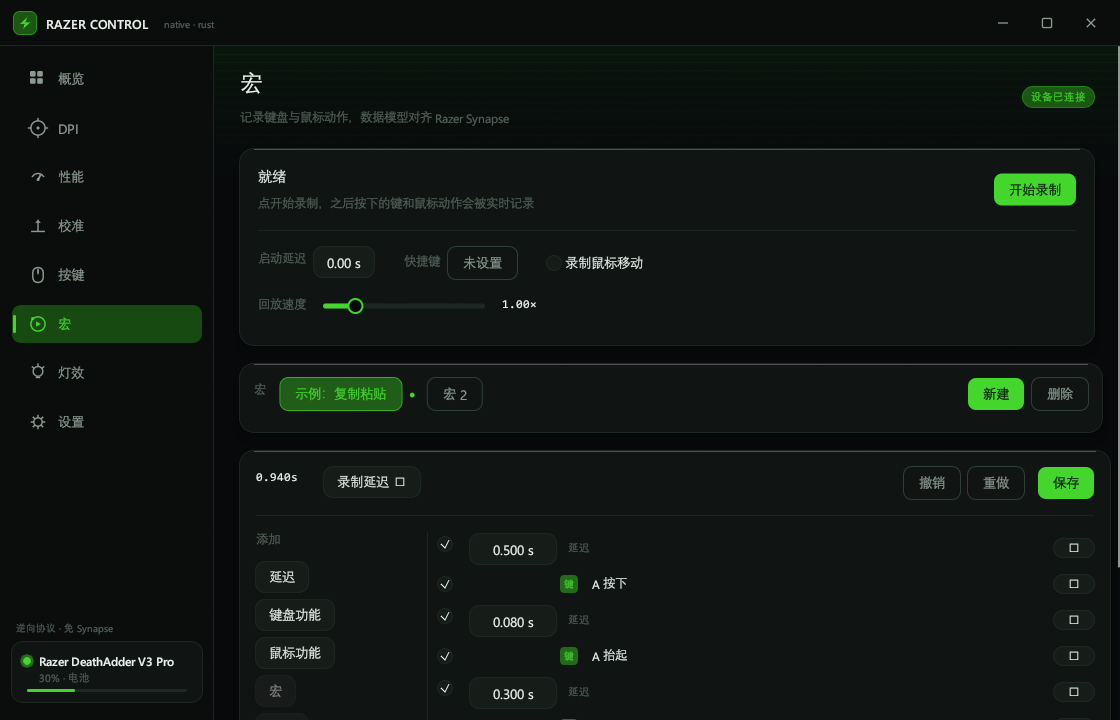
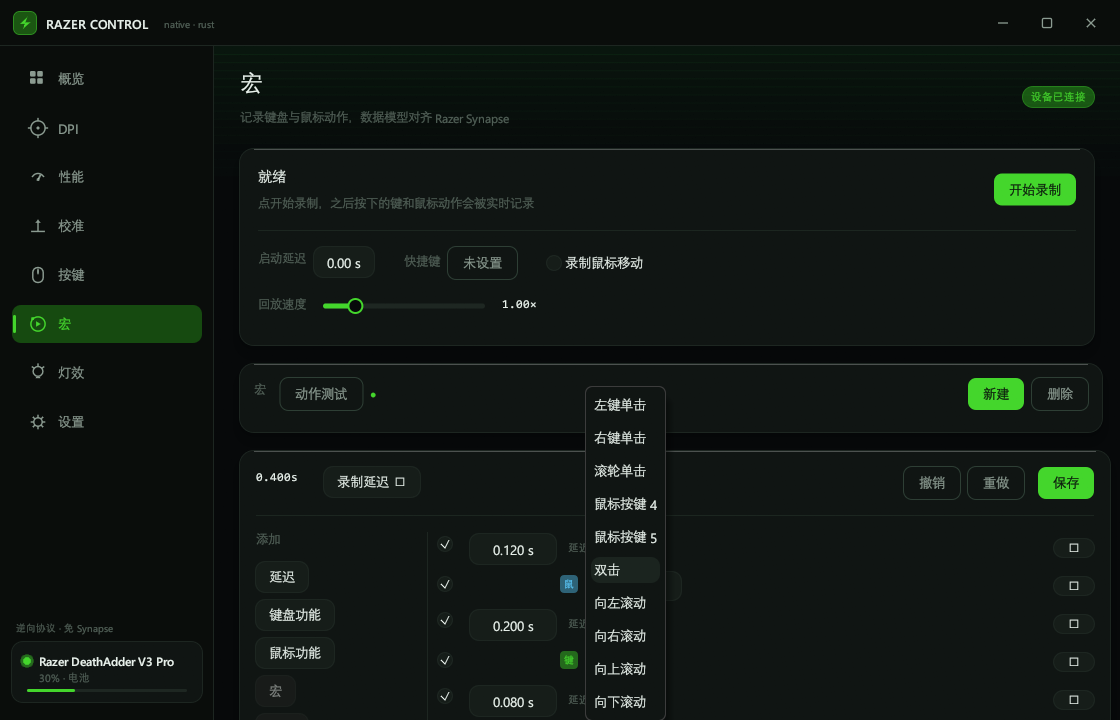
feat(macro): 按雷云交互实现动作步骤与按键步骤
雷云的「鼠标功能」不是插入写死的动作，而是先插入一行「选择操作」再在行内下拉里挑。
本次按 dash.js 里逆向出的动作表实现：
  LEFT_CLICK / RIGHT_CLICK / SCROLL_CLICK / DOUBLE_CLICK /
  MOUSE_BUTTON_4 / MOUSE_BUTTON_5 / SCROLL_LEFT / SCROLL_RIGHT /
  SCROLL_UP / SCROLL_DOWN

- 新增 kind=5（动作步骤）：a=动作码，-1 表示未选择（UI 显示「选择操作 ▾」高亮）
- 新增 kind=6（按键步骤）：a=scan code，点「选择键」后按一个键填入
- 回放支持全部 10 个动作，含双击与横向滚动（MOUSEEVENTF_HWHEEL）
- 录制输出仍是原始 kind=1/2 事件，与雷云录制结果同构
- README 补 4.5 节说明这套交互

diff --git a/rz-app/src/pages/mod.rs b/rz-app/src/pages/mod.rs
@@ -1154,12 +1154,18 @@ pub fn macros(app: &mut App, ui: &mut Ui) {
             app.macro_add_key = false;
             if let Some(i) = app.macro_sel {
                 let sc = M::vk_to_scancode(vk);
+                let step = app.macro_target_step.take();
                 let mut evs = app.macros[i].events.clone();
-                evs.push(M::Ev::delay(50));
-                evs.push(M::Ev::key(sc, true));
-                evs.push(M::Ev::delay(50));
-                evs.push(M::Ev::key(sc, false));
-                app.push_macro_undo(i);
+                match step {
+                    Some(j) if j < evs.len() && evs[j].kind == M::T_KEYPRESS => {
+                        app.push_macro_undo(i);
+                        evs[j].a = sc as i32;
+                    }
+                    _ => {
+                        app.push_macro_undo(i);
+                        evs.push(M::Ev::keypress(sc as i32));
+                    }
+                }
                 app.macros[i].events = evs;
                 app.save_macros();
             }
@@ -1451,12 +1457,9 @@ pub fn macros(app: &mut App, ui: &mut Ui) {
                     if ui.button("键盘功能").clicked() {
                         add_key = true;
                     }
-                    ui.menu_button("鼠标功能", |ui| {
-                        if ui.button("左键单击").clicked() {
-                            add_mouse = true;
-                            ui.close_menu();
-                        }
-                    });
+                    if ui.button("鼠标功能").clicked() {
+                        add_mouse = true;
+                    }
                     ui.add_enabled_ui(false, |ui| {
                         let _ = ui.button("宏");
                         let _ = ui.button("启动");
@@ -1542,8 +1545,8 @@ pub fn macros(app: &mut App, ui: &mut Ui) {
                         } else {
                             ui.add_space(90.0);
                             let (badge, col) = match evs[j].kind {
-                                M::T_KEYBOARD => ("键", ACCENT),
-                                M::T_MOUSE => ("鼠", INFO),
+                                M::T_KEYBOARD | M::T_KEYPRESS => ("键", ACCENT),
+                                M::T_MOUSE | M::T_ACTION => ("鼠", INFO),
                                 M::T_WHEEL => ("轮", TEXT),
                                 _ => ("移", MUTED),
                             };
@@ -1558,11 +1561,52 @@ pub fn macros(app: &mut App, ui: &mut Ui) {
                                 col,
                             );
                             ui.add_space(6.0);
-                            ui.label(
-                                egui::RichText::new(M::ev_label(&evs[j]))
+                            if evs[j].kind == M::T_ACTION && !app.macro_recording {
+                                // 雷云交互：行内下拉选择操作
+                                let cur = M::action_name(evs[j].a);
+                                let unset = evs[j].a < 0;
+                                let label = if unset {
+                                    "选择操作 ▾".to_string()
+                                } else {
+                                    format!("{} ▾", cur)
+                                };
+                                let txt = egui::RichText::new(label)
                                     .font(app.ty.small.clone())
-                                    .color(if M::ev_disabled(&evs[j]) { MUTED } else { TEXT }),
-                            );
+                                    .color(if unset { ACCENT } else { TEXT });
+                                ui.menu_button(txt, |ui| {
+                                    for (code, (name, en)) in M::ACTIONS.iter().enumerate() {
+                                        if ui
+                                            .button(*name)
+                                            .on_hover_text(*en)
+                                            .clicked()
+                                        {
+                                            evs[j].a = code as i32;
+                                            changed = true;
+                                            ui.close_menu();
+                                        }
+                                    }
+                                });
+                            } else if evs[j].kind == M::T_KEYPRESS && !app.macro_recording {
+                                let name = if evs[j].a <= 0 {
+                                    "选择键".to_string()
+                                } else {
+                                    M::sc_name(evs[j].a as u16)
+                                };
+                                let txt = egui::RichText::new(name)
+                                    .font(app.ty.small.clone())
+                                    .color(if evs[j].a <= 0 { ACCENT } else { TEXT });
+                                if ui.button(txt).on_hover_text("点一下，然后按要用的键").clicked() {
+                                    app.macro_target_step = Some(j);
+                                    app.macro_add_key = true;
+                                    crate::hook::set_capture(true);
+                                }
+                            } else {
+                                ui.label(
+                                    egui::RichText::new(M::ev_label(&evs[j]))
+                                        .font(app.ty.small.clone())
+                                        .color(if M::ev_disabled(&evs[j]) { MUTED } else { TEXT }),
+                                );
+                            }
                         }
 
                         if !app.macro_recording {
@@ -1610,15 +1654,24 @@ pub fn macros(app: &mut App, ui: &mut Ui) {
             app.save_macros();
         }
         if add_mouse {
+            // 和雷云一样：先插入一个未选择操作的步骤，再在行内下拉里挑动作
             app.push_macro_undo(i);
             app.macros[i].events.push(M::Ev::delay(50));
-            app.macros[i].events.push(M::Ev::mouse(M::BTN_LEFT, true));
-            app.macros[i].events.push(M::Ev::delay(50));
-            app.macros[i].events.push(M::Ev::mouse(M::BTN_LEFT, false));
+            app.macros[i]
+                .events
+                .push(M::Ev::action(M::ACT_UNSET));
             app.save_macros();
         }
     }
     if add_key {
+        // 键盘功能：插入一个"选择键"步骤，再按键捕获
+        if let Some(i) = sel {
+            app.push_macro_undo(i);
+            app.macros[i].events.push(M::Ev::delay(50));
+            app.macros[i].events.push(M::Ev::keypress(0));
+            app.macro_target_step = Some(app.macros[i].events.len() - 1);
+            app.save_macros();
+        }
         crate::hook::set_capture(true);
         app.macro_add_key = true;
     }

diff --git a/rz-app/src/macros.rs b/rz-app/src/macros.rs
@@ -31,6 +31,35 @@ pub const T_KEYBOARD: u8 = 1;
 pub const T_MOUSE: u8 = 2;
 pub const T_MOUSE_MOVE: u8 = 3;
 pub const T_WHEEL: u8 = 4;
+/// 动作步骤（雷云「鼠标功能」）：a = 动作码，见 ACTIONS
+pub const T_ACTION: u8 = 5;
+/// 按键步骤（雷云「键盘功能」）：a = scan code，回放时自动按下+抬起
+pub const T_KEYPRESS: u8 = 6;
+
+/// 未选择任何动作（插入后的初始状态，对应雷云的「选择操作」）
+pub const ACT_UNSET: i32 = -1;
+
+/// 雷云的鼠标动作表（左键单击/右键单击/滚轮单击/鼠标按键4/5/双击/向左滚动…）
+pub const ACTIONS: [(&str, &str); 10] = [
+    ("左键单击", "LEFT_CLICK"),
+    ("右键单击", "RIGHT_CLICK"),
+    ("滚轮单击", "SCROLL_CLICK"),
+    ("鼠标按键 4", "MOUSE_BUTTON_4"),
+    ("鼠标按键 5", "MOUSE_BUTTON_5"),
+    ("双击", "DOUBLE_CLICK"),
+    ("向左滚动", "SCROLL_LEFT"),
+    ("向右滚动", "SCROLL_RIGHT"),
+    ("向上滚动", "SCROLL_UP"),
+    ("向下滚动", "SCROLL_DOWN"),
+];
+
+pub fn action_name(code: i32) -> &'static str {
+    if code < 0 || code as usize >= ACTIONS.len() {
+        "选择操作"
+    } else {
+        ACTIONS[code as usize].0
+    }
+}
 
 /// flag: 1 = 按下，2 = 抬起（与雷云一致）
 pub const FLAG_DOWN: u8 = 1;
@@ -79,6 +108,22 @@ impl Ev {
             a: btn as i32,
             b: if down { FLAG_DOWN as i32 } else { FLAG_UP as i32 },
             c: 0,
+        }
+    }
+    /// 动作步骤（雷云「鼠标功能」）：code = ACTIONS 下标，ACT_UNSET 表示未选择
+    pub fn action(code: i32) -> Self {
+        Ev {
+            kind: T_ACTION,
+            a: code,
+            ..Default::default()
+        }
+    }
+    /// 按键步骤（雷云「键盘功能」）：sc = scan code，回放时自动按下+抬起
+    pub fn keypress(sc: i32) -> Self {
+        Ev {
+            kind: T_KEYPRESS,
+            a: sc,
+            ..Default::default()
         }
     }
     pub fn wheel(delta: i32) -> Self {
@@ -500,6 +545,98 @@ fn rand_between(a: f32, b: f32) -> u32 {
 }
 
 /// 回放（新线程）。speed > 1 加速，delay_mode 覆盖录制延迟。
+fn send_input(inp: &Input) {
+    unsafe {
+        SendInput(1, inp, std::mem::size_of::<Input>() as i32);
+    }
+}
+
+fn mouse_ev(flags: u32, data: u32) {
+    let inp = Input {
+        kind: 0,
+        u: InputUnion {
+            mi: MouseInput {
+                dx: 0,
+                dy: 0,
+                mouse_data: data,
+                flags,
+                time: 0,
+                extra: 0,
+            },
+        },
+    };
+    send_input(&inp);
+}
+
+/// 0=左 1=右 2=中 3=X1 4=X2
+fn mouse_click(btn: u8) {
+    let (down, up, data) = match btn {
+        1 => (MOUSEEVENTF_RIGHTDOWN, MOUSEEVENTF_RIGHTUP, 0),
+        2 => (MOUSEEVENTF_MIDDLEDOWN, MOUSEEVENTF_MIDDLEUP, 0),
+        3 => (MOUSEEVENTF_XDOWN, MOUSEEVENTF_XUP, 1),
+        4 => (MOUSEEVENTF_XDOWN, MOUSEEVENTF_XUP, 2),
+        _ => (MOUSEEVENTF_LEFTDOWN, MOUSEEVENTF_LEFTUP, 0),
+    };
+    mouse_ev(down, data);
+    std::thread::sleep(std::time::Duration::from_millis(20));
+    mouse_ev(up, data);
+}
+
+const MOUSEEVENTF_HWHEEL: u32 = 0x1000;
+
+fn mouse_wheel(vertical: bool, delta: i32) {
+    let flag = if vertical {
+        MOUSEEVENTF_WHEEL
+    } else {
+        MOUSEEVENTF_HWHEEL
+    };
+    mouse_ev(flag, delta as u32);
+}
+
+fn key_event(sc: u16, down: bool) {
+    let mut flags = 0x0008; // KEYEVENTF_SCANCODE
+    if !down {
+        flags |= KEYEVENTF_KEYUP;
+    }
+    if sc & SC_EXT != 0 {
+        flags |= KEYEVENTF_EXTENDEDKEY;
+    }
+    let inp = Input {
+        kind: 1,
+        u: InputUnion {
+            ki: KeybdInput {
+                vk: 0,
+                scan: sc & 0x1FFF,
+                flags,
+                time: 0,
+                extra: 0,
+            },
+        },
+    };
+    send_input(&inp);
+}
+
+/// 执行一个雷云动作码（见 ACTIONS）
+fn play_action(code: i32, _factor: f32) {
+    match code {
+        0 => mouse_click(0),
+        1 => mouse_click(1),
+        2 => mouse_click(2),
+        3 => mouse_click(3),
+        4 => mouse_click(4),
+        5 => {
+            mouse_click(0);
+            std::thread::sleep(std::time::Duration::from_millis(60));
+            mouse_click(0);
+        }
+        6 => mouse_wheel(false, -120),
+        7 => mouse_wheel(false, 120),
+        8 => mouse_wheel(true, 120),
+        9 => mouse_wheel(true, -120),
+        _ => {}
+    }
+}
+
 pub fn play(m: &Macro, speed: f32) {
     if m.events.is_empty() {
         return;
@@ -552,6 +689,15 @@ pub fn play(m: &Macro, speed: f32) {
                         if ms > 0 {
                             std::thread::sleep(std::time::Duration::from_millis(ms));
                         }
+                    }
+                    T_ACTION => {
+                        play_action(e.a, factor);
+                    }
+                    T_KEYPRESS => {
+                        let sc = e.a.max(0) as u16;
+                        key_event(sc, true);
+                        std::thread::sleep(std::time::Duration::from_millis(40));
+                        key_event(sc, false);
                     }
                     T_KEYBOARD => {
                         inject_scancode(e.a as u16, e.b == FLAG_DOWN as i32);
@@ -708,6 +854,12 @@ pub fn sc_name(sc: u16) -> String {
 }
 
 pub fn ev_label(e: &Ev) -> String {
+    if e.kind == T_ACTION {
+        return action_name(e.a).to_string();
+    }
+    if e.kind == T_KEYPRESS {
+        return format!("{} 按键", sc_name(e.a.max(0) as u16));
+    }
     match e.kind {
         T_DELAY => format!("延迟 {:.3}s", e.a.max(0) as f32 / 1000.0),
         T_KEYBOARD => format!(

diff --git a/rz-app/src/app.rs b/rz-app/src/app.rs
@@ -48,8 +48,10 @@ pub struct App {
     pub macro_record_hotkey: u8,
     /// 录制启动延迟（毫秒）
     pub macro_start_delay_ms: u32,
-    /// 等待按一个键来添加「键盘功能」步骤
+    /// 等待按一个键来填「键盘功能」步骤
     pub macro_add_key: bool,
+    /// 待填充的按键步骤下标
+    pub macro_target_step: Option<usize>,
     /// 撤销/重做栈（按当前宏的步骤快照）
     pub macro_undo: Vec<Vec<crate::macros::Ev>>,
     pub macro_redo: Vec<Vec<crate::macros::Ev>>,
@@ -117,6 +119,7 @@ impl App {
             macro_record_hotkey: 0,
             macro_start_delay_ms: 0,
             macro_add_key: false,
+            macro_target_step: None,
             macro_undo: Vec::new(),
             macro_redo: Vec::new(),
             page: cfg.last_page.min(7),

diff --git a/README.md b/README.md
@@ -276,6 +276,33 @@ Synapse 自己的日志里能直接对上（`%LOCALAPPDATA%\Razer\RazerAppEngine
 4. **回放不会被二次录制** —— 钩子忽略 `LLKHF_INJECTED` / `LLMHF_INJECTED` 事件。
    调试自动化时可用环境变量 `RC_ALLOW_INJECTED=1` 放行。
 
+### 4.5 「鼠标功能 / 键盘功能」的交互（照抄雷云）
+
+雷云的添加面板不是"点一下直接插入一个左键"，而是**先插入一个未选择的步骤**，再在行内下拉里挑：
+
+```js
+// 逆向自 dash.js 的动作表
+{id:"Click",content:"LEFT_CLICK"}   {id:"Menu",content:"RIGHT_CLICK"}
+{id:"ScrollButton",content:"SCROLL_CLICK"}  {id:"DoubleClick",content:"DOUBLE_CLICK"}
+{id:"Previous",content:"MOUSE_BUTTON_4"}    {id:"Next",content:"MOUSE_BUTTON_5"}
+{id:"ScrollLeft",content:"SCROLL_LEFT"}     {id:"ScrollRight",content:"SCROLL_RIGHT"}
+{id:"ScrollUp",content:"SCROLL_UP"}         {id:"ScrollDown",content:"SCROLL_DOWN"}
+```
+
+本项目的对应实现：
+
+| 雷云 | 本项目 |
+| --- | --- |
+| 鼠标功能 → 插入一行「选择操作」 | `kind=5`（动作步骤），`a=-1` 表示未选择，行内是下拉控件 |
+| 下拉里的 10 个动作 | `macros::ACTIONS` 表，名称完全对齐 |
+| 键盘功能 → 插入一行「选择键」 | `kind=6`（按键步骤），`a=0` 未选择，点一下再按一个键 |
+| 延迟 | `kind=0`，行内直接拖秒数 |
+
+回放时 `kind=5` 按动作码展开（含双击、横向滚动 `MOUSEWHEELF_HWHEEL`），
+`kind=6` 自动按下+抬起。录制产生的仍是原始的 `kind=1/2` 事件，与雷云录制输出同构。
+
+![宏](docs/08-macros.png)
+
 序列宏与分类宏需要多分支结构，当前只实现标准宏（UI 里置灰并标注）。
 
 存储是纯文本，与上面的 events 一一对应：
